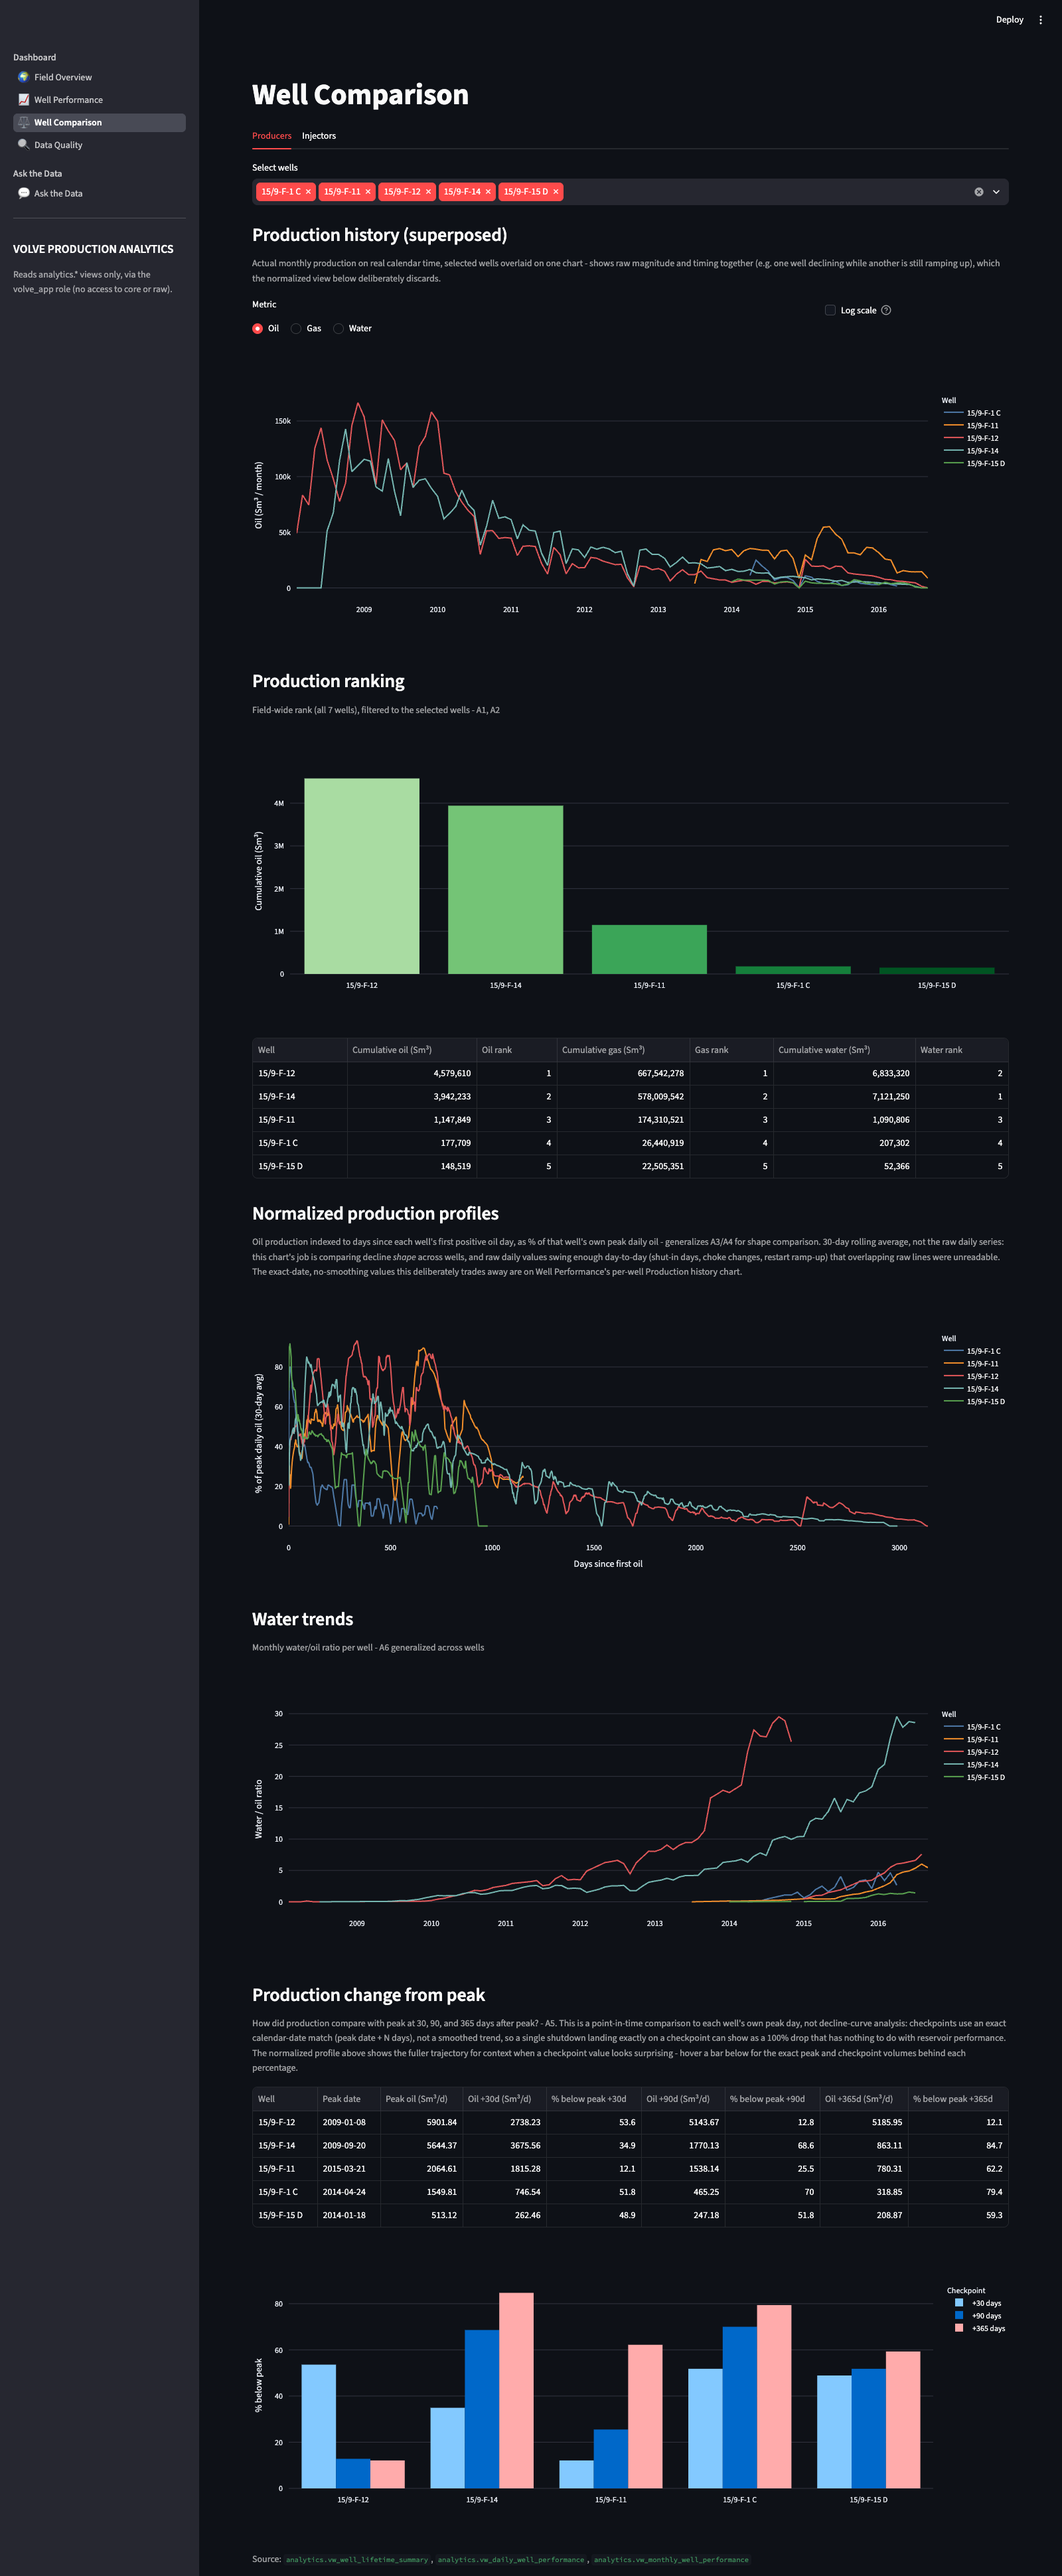
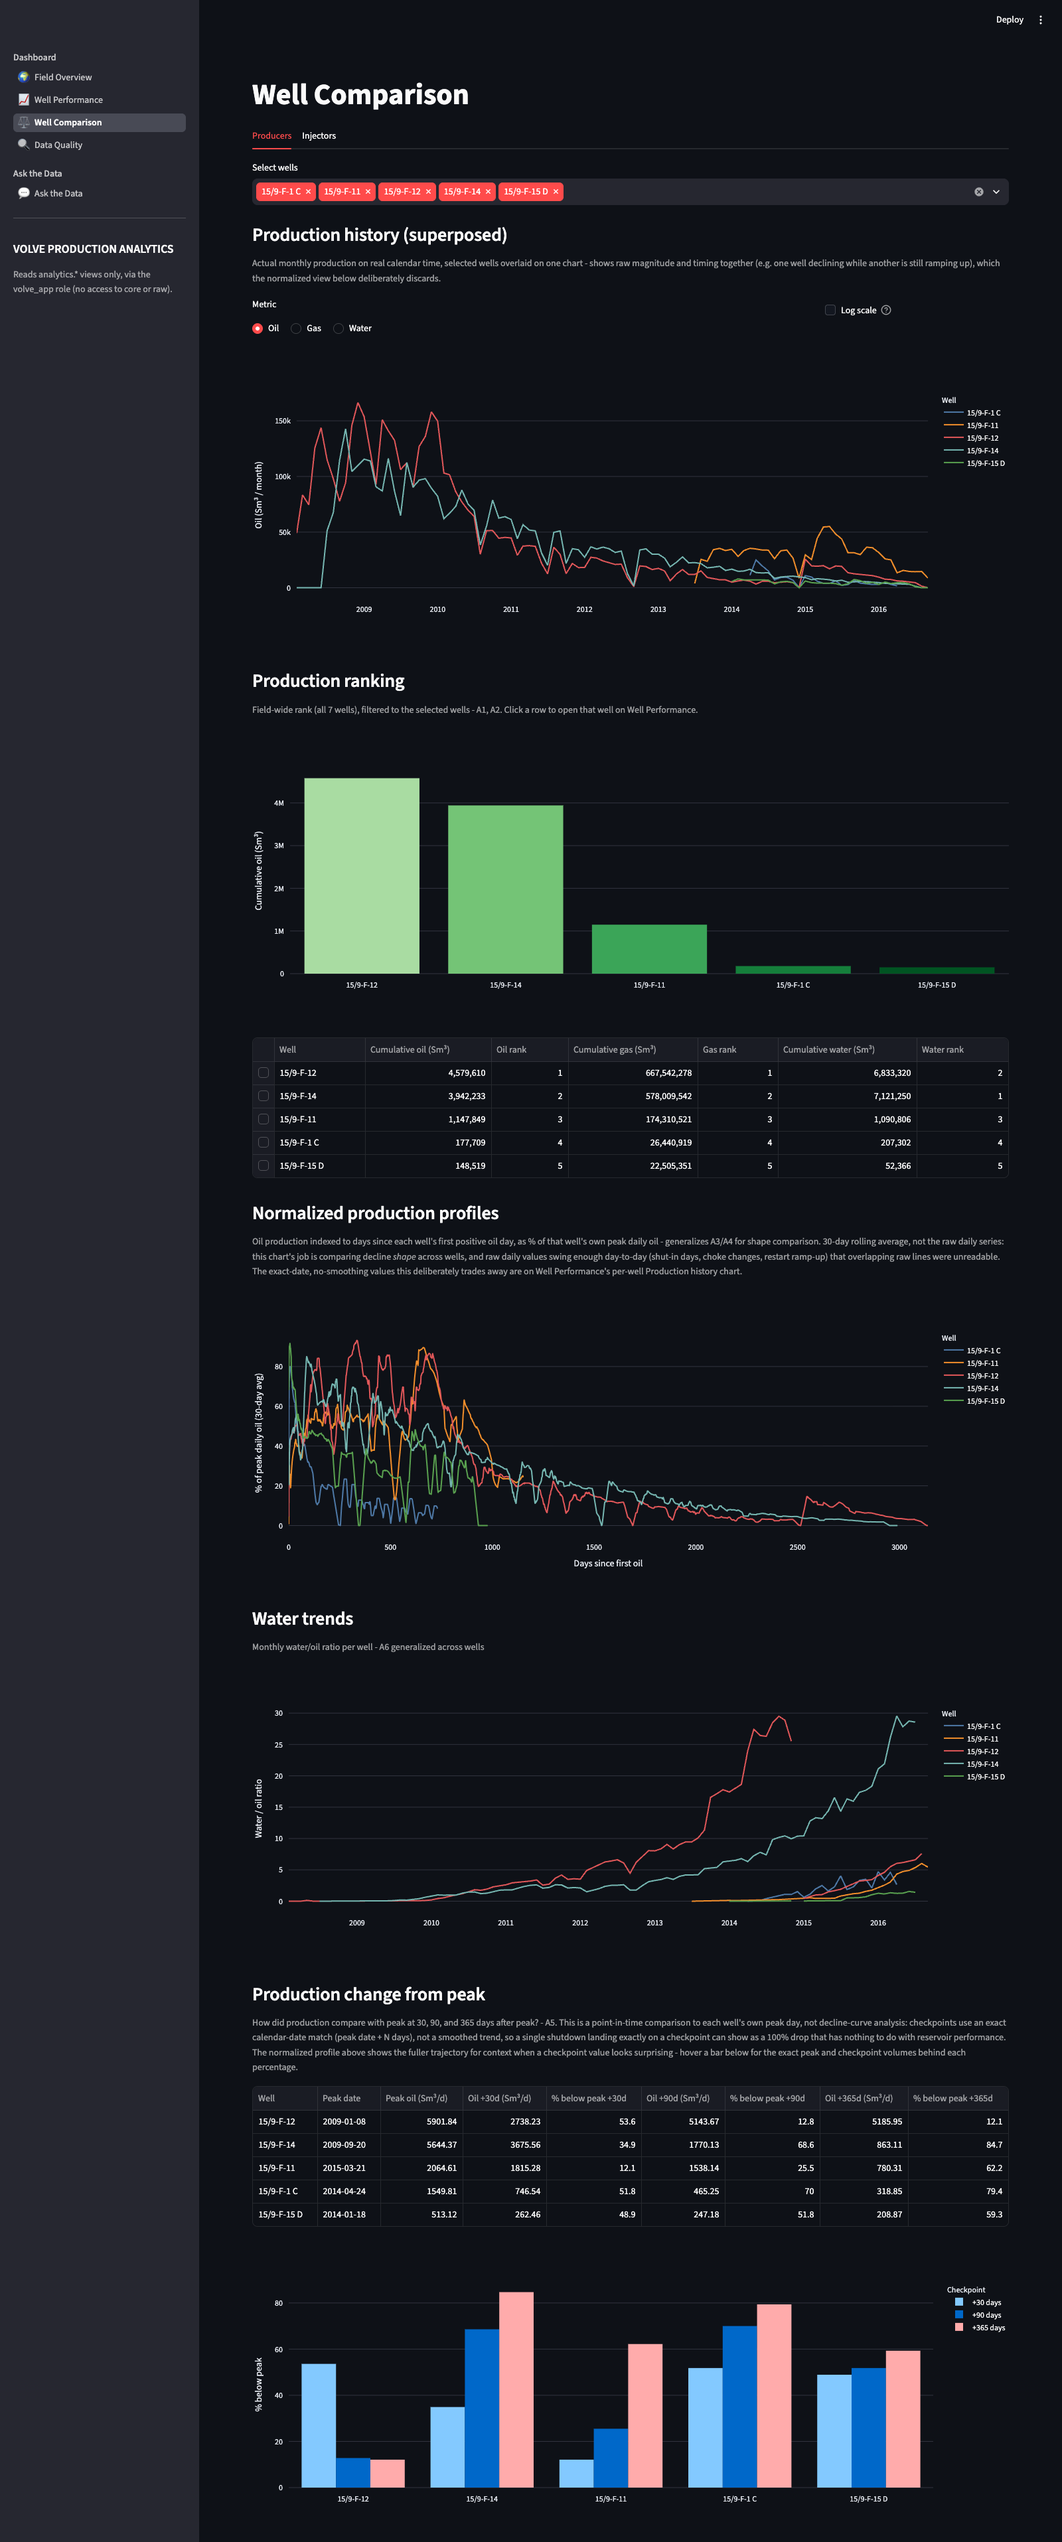
Add click-to-navigate from Well Comparison ranking tables to Well Performance
Same pattern just added to Field Overview's Well summary table, applied to
both ranking tables here: Production ranking (Producers tab) and Injection
ranking (Injectors tab). Clicking a row sets st.session_state for Well
Performance's selectbox key and calls st.switch_page.

Verified live on both tables, including the one real risk in this
mechanism: after sorting the table by a different column in the browser,
clicking still resolves to the correct well (tested sorting Production
ranking by Water rank, which reorders the visible rows, then clicking the
new first row - correctly opened 15/9-F-14, not whatever was originally
at that position).

diff --git a/app/views/well_comparison.py b/app/views/well_comparison.py
@@ -73,7 +73,10 @@ with producers_tab:
         st.caption("Select at least one well.")
 
     st.subheader("Production ranking")
-    st.caption("Field-wide rank (all 7 wells), filtered to the selected wells  -  A1, A2")
+    st.caption(
+        "Field-wide rank (all 7 wells), filtered to the selected wells  -  A1, A2. "
+        "Click a row to open that well on Well Performance."
+    )
     rank = q.ranking()
     rank_selected = rank[rank["wellbore_name"].isin(selected_names)]
     if not rank_selected.empty:
@@ -84,7 +87,7 @@ with producers_tab:
         )
         fig.update_layout(yaxis_title="Cumulative oil (Sm³)", xaxis_title=None, showlegend=False)
         st.plotly_chart(fig, width="stretch")
-        st.dataframe(
+        rank_event = st.dataframe(
             rank_selected[["wellbore_name", "total_oil", "oil_rank", "total_gas", "gas_rank",
                             "total_water", "water_rank"]].rename(columns={
                 "wellbore_name": "Well", "total_oil": "Cumulative oil (Sm³)", "oil_rank": "Oil rank",
@@ -92,12 +95,17 @@ with producers_tab:
                 "total_water": "Cumulative water (Sm³)", "water_rank": "Water rank",
             }),
             width="stretch", hide_index=True,
+            on_select="rerun", selection_mode="single-row",
             column_config={
                 "Cumulative oil (Sm³)": st.column_config.NumberColumn(format="%,.0f"),
                 "Cumulative gas (Sm³)": st.column_config.NumberColumn(format="%,.0f"),
                 "Cumulative water (Sm³)": st.column_config.NumberColumn(format="%,.0f"),
             },
         )
+        if rank_event.selection.rows:
+            selected_well = rank_selected.iloc[rank_event.selection.rows[0]]["wellbore_name"]
+            st.session_state["well_performance_select"] = selected_well
+            st.switch_page("views/well_performance.py")
     else:
         st.caption("Select at least one well.")
 
@@ -257,7 +265,7 @@ with injectors_tab:
         "Field-wide rank (all 7 wells), filtered to the selected wells - ranked by "
         "cumulative water injection. Oil/gas/water columns are also shown in the table "
         "for transparency - 15/9-F-5's are real, 15/9-F-4's are blank because it never "
-        "produces either."
+        "produces either. Click a row to open that well on Well Performance."
     )
     rank_inj = q.ranking()
     rank_selected_inj = rank_inj[rank_inj["wellbore_name"].isin(selected_names_inj)]
@@ -269,7 +277,7 @@ with injectors_tab:
         )
         fig_rank_inj.update_layout(yaxis_title="Cumulative water injection (Sm³)", xaxis_title=None, showlegend=False)
         st.plotly_chart(fig_rank_inj, width="stretch")
-        st.dataframe(
+        rank_inj_event = st.dataframe(
             rank_selected_inj[["wellbore_name", "total_water_injection", "injection_rank",
                                 "total_oil", "oil_rank", "total_gas", "gas_rank",
                                 "total_water", "water_rank"]].rename(columns={
@@ -280,6 +288,7 @@ with injectors_tab:
                 "total_water": "Cumulative water (Sm³)", "water_rank": "Water rank",
             }),
             width="stretch", hide_index=True,
+            on_select="rerun", selection_mode="single-row",
             column_config={
                 "Cumulative water injection (Sm³)": st.column_config.NumberColumn(format="%,.0f"),
                 "Cumulative oil (Sm³)": st.column_config.NumberColumn(format="%,.0f"),
@@ -287,6 +296,10 @@ with injectors_tab:
                 "Cumulative water (Sm³)": st.column_config.NumberColumn(format="%,.0f"),
             },
         )
+        if rank_inj_event.selection.rows:
+            selected_well = rank_selected_inj.iloc[rank_inj_event.selection.rows[0]]["wellbore_name"]
+            st.session_state["well_performance_select"] = selected_well
+            st.switch_page("views/well_performance.py")
     else:
         st.caption("Select at least one well.")
 
